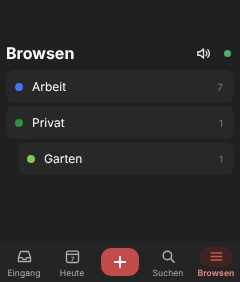
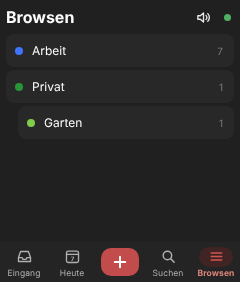
Todoist 0.1.1: use the full screen height on the R1
The device photos show the webview is 282 px tall and sits below the
R1 OS bar, so the 38 px kept free at the top were wasted. fitScreen()
now measures the webview: no top gap at 282 px, and only if a webview
reports more height is the surplus treated as covered by the bar.
Setup shows the measured size. Direct Todoist API access (CORS) is
confirmed on the device; README updated. index-v0.1.0.html stays for
cards installed from the first QR.

Claude-Session: https://claude.ai/code/session_0169St2Lp8zqAJDK5dLJTKNS

diff --git a/install.html b/install.html
@@ -37,7 +37,7 @@ li { margin: 4px 0; } code { font-size: 12px; }
 <script>
 // The QR is built from wherever this page is served, so forks need no edits.
 // Fallback: the pre-rendered qr.png (GitHub Pages URL) stays visible if the CDN is blocked.
-var ENTRY = 'index-v0.1.0.html';
+var ENTRY = 'index-v0.1.1.html';
 var url = location.href.replace(/install\.html.*$/, '') + ENTRY + '?v=1';
 var payload = JSON.stringify({
   title: 'Todoist',

diff --git a/README.md b/README.md
@@ -7,8 +7,8 @@ kein eigener Server nötig. Referenz: `docs/r1-creations.md`. Diese Creation leb
 
 ## Screenshots
 
-Aus dem Test-Harness (Chromium, 240×282 px, gemockte Todoist-API). Auf dem R1 liegt oben die
-System-Leiste (zurück, Uhr, Akku) über den freien 38 px.
+Aus dem Test-Harness (Chromium, 240×282 px, gemockte Todoist-API). Auf dem R1 sitzt die
+System-Leiste (zurück, Uhr, Akku) darüber, außerhalb der Seite.
 
 | Projekt „Arbeit“ | Heute | Eingang | Browsen |
 | --- | --- | --- | --- |
@@ -24,7 +24,7 @@ R1: Creations-Karte → „add via QR code“ → scannen.
 
 ![Install-QR](qr.png)
 
-Der QR enthält nur `{"title":"Todoist","url":".../todoist/index-v0.1.0.html?v=1","description":…,"iconUrl":…,"themeColor":"#C24B4B"}`,
+Der QR enthält nur `{"title":"Todoist","url":".../todoist/index-v0.1.1.html?v=1","description":…,"iconUrl":…,"themeColor":"#C24B4B"}`,
 niemals den Token. `install.html` zeigt denselben Code im Browser und baut ihn aus der eigenen Adresse,
 funktioniert also auch auf einem anderen Host.
 
@@ -118,8 +118,9 @@ Methoden und dasselbe Aufgabenformat liefern.
 
 ## CORS und Proxy
 
-Ob Todoist Aufrufe aus dem R1-Webview zulässt, ist offen (Preflight wegen `Authorization`). Die App
-ruft die API direkt auf. Zeigt „Testen“ auf dem Gerät einen Netz/CORS-Fehler, obwohl der R1 online ist:
+**Auf dem R1 geprüft (07.10.2026, v0.1.0):** Der Webview ruft `api.todoist.com` direkt auf, Lesen und
+Anlegen funktionieren, kein Proxy nötig. Der Proxy bleibt als Reserve, falls Todoist das ändert.
+Zeigt „Testen“ auf dem Gerät einen Netz/CORS-Fehler, obwohl der R1 online ist:
 
 1. Den Ordner `proxy/` als eigenes Vercel-Projekt deployen (Vercel → Add New → Project → dieses Repo,
    Branch `creation/todoist`, Root Directory `proxy`).
@@ -138,12 +139,12 @@ Neue Version:
 
 ```bash
 # APP_VERSION in index.html erhöhen, dann
-cp index.html index-v0.1.1.html
+cp index.html index-v0.1.2.html
 # creation.json: "version" und "entry" anpassen, ENTRY in install.html anpassen
 python3 tools/make_qr.py --title Todoist --description "Todoist-Aufgaben auf dem R1" \
-  --url "https://luxx1993.github.io/r1-creations/todoist/index-v0.1.1.html?v=1" \
+  --url "https://luxx1993.github.io/r1-creations/todoist/index-v0.1.2.html?v=1" \
   --icon-url https://luxx1993.github.io/r1-creations/todoist/icon.png --theme "#C24B4B"
-git commit -am "Todoist 0.1.1" && git push
+git commit -am "Todoist 0.1.2" && git push
 ```
 
 Auf dem R1 die alte Karte deinstallieren, neuen QR scannen, Token neu eingeben.
@@ -156,23 +157,29 @@ node test/harness.mjs      # Node 22+, Chrome/Chromium (CHROME=/pfad/zu/chrome)
 
 Fährt die echte `index.html` in Headless-Chrome gegen eine gemockte Todoist-API v1 (mit absichtlich
 kleinen Seiten für die Cursor-Logik) und stubbt `CreationVoiceHandler`, `PluginMessageHandler` und
-`creationStorage`. 95 Prüfungen: Setup und Verbindungstest (OK, 401, CORS), Heute/Eingang/Browsen/Projekt/
+`creationStorage`. 96 Prüfungen: Setup und Verbindungstest (OK, 401, CORS), Heute/Eingang/Browsen/Projekt/
 Suchen, Scrollrad und Side-Button, Doppelklick-Schutz, Erledigen per Kreis und Taste mit Rückgängig,
 Sprache → Review → Senden/Verwerfen, Plus tippen/halten, Bearbeiten, Vorlesen (max. 8, fester Wortlaut),
 Offline-Queue über einen Neustart, abgelehnte Writes, Token nur im Secure Storage, Layout 240×282,
-Demo-Modus, Proxy. Die Screenshots oben schreibt derselbe Lauf nach `screenshots/`.
+Layout bei 282 und 320 px Höhe, Demo-Modus, Proxy. Die Screenshots oben schreibt derselbe Lauf nach `screenshots/`.
 
 Lokal ansehen: `python3 -m http.server 8000`, dann `http://localhost:8000/index.html` (Demo-Modus).
 
-## Nur auf dem echten R1 prüfbar
+## Auf dem echten R1
 
-- **CORS**: ob der Webview `api.todoist.com` mit `Authorization`-Header aufrufen darf (Setup → Testen).
+Bestätigt (v0.1.0): Installation per QR, Token-Setup, direkter API-Zugriff ohne Proxy (CORS ok), Sync
+(grüner Punkt), Anlegen, Eingang, Suchen, Layout und Farben. Der Webview ist 240×282 px groß und liegt
+*unter* der OS-Leiste; die in v0.1.0 freigehaltenen 38 px oben waren unnötig und sind in v0.1.1 weg.
+Die App misst die Höhe selbst (`fitScreen()`): Meldet ein Webview mehr als 282 px, gilt der Überschuss
+oben als von der Leiste verdeckt. Das Setup zeigt unten die gemessene Größe (z. B. `240×282`).
+
+Noch offen:
+
 - **Sprache**: `CreationVoiceHandler` (PTT halten, Plus halten) und die Qualität deutscher Transkripte.
 - **Vorlesen**: ob das R1-LLM den Text wörtlich spricht oder ausschmückt.
 - **Quick Add auf Deutsch**: ob „morgen“ erkannt wird, hängt von der Spracheinstellung des Todoist-Kontos ab.
 - `creationStorage.secure` auf dem Gerät (fällt sonst auf `.plain` zurück, nie auf `localStorage`).
 - `longPressEnd` und Plus-Halten mit echtem Touch, R1-Tastatur in Setup, Editor und Suchfeld.
-- Ob die OS-Leiste wirklich ~38 px verdeckt (Konstante `--safe` in der CSS).
 - Tempo bei großen Konten (alle offenen Aufgaben für Suchen und Browsen).
 
 ## Dateien
@@ -180,7 +187,7 @@ Lokal ansehen: `python3 -m http.server 8000`, dann `http://localhost:8000/index.
 | Pfad | Inhalt |
 | --- | --- |
 | `index.html` | die Creation (Arbeitskopie) |
-| `index-v0.1.0.html` | versionierte Kopie, auf die der QR zeigt |
+| `index-v0.1.1.html` | versionierte Kopie, auf die der QR zeigt (`index-v0.1.0.html` bleibt für alte Karten) |
 | `install.html` | Install-Seite mit QR |
 | `qr.png`, `icon.png`, `make_icon.py` | Install-QR, Icon (96×96) und sein Generator |
 | `creation.json` | Metadaten für die Übersichtsseite |
